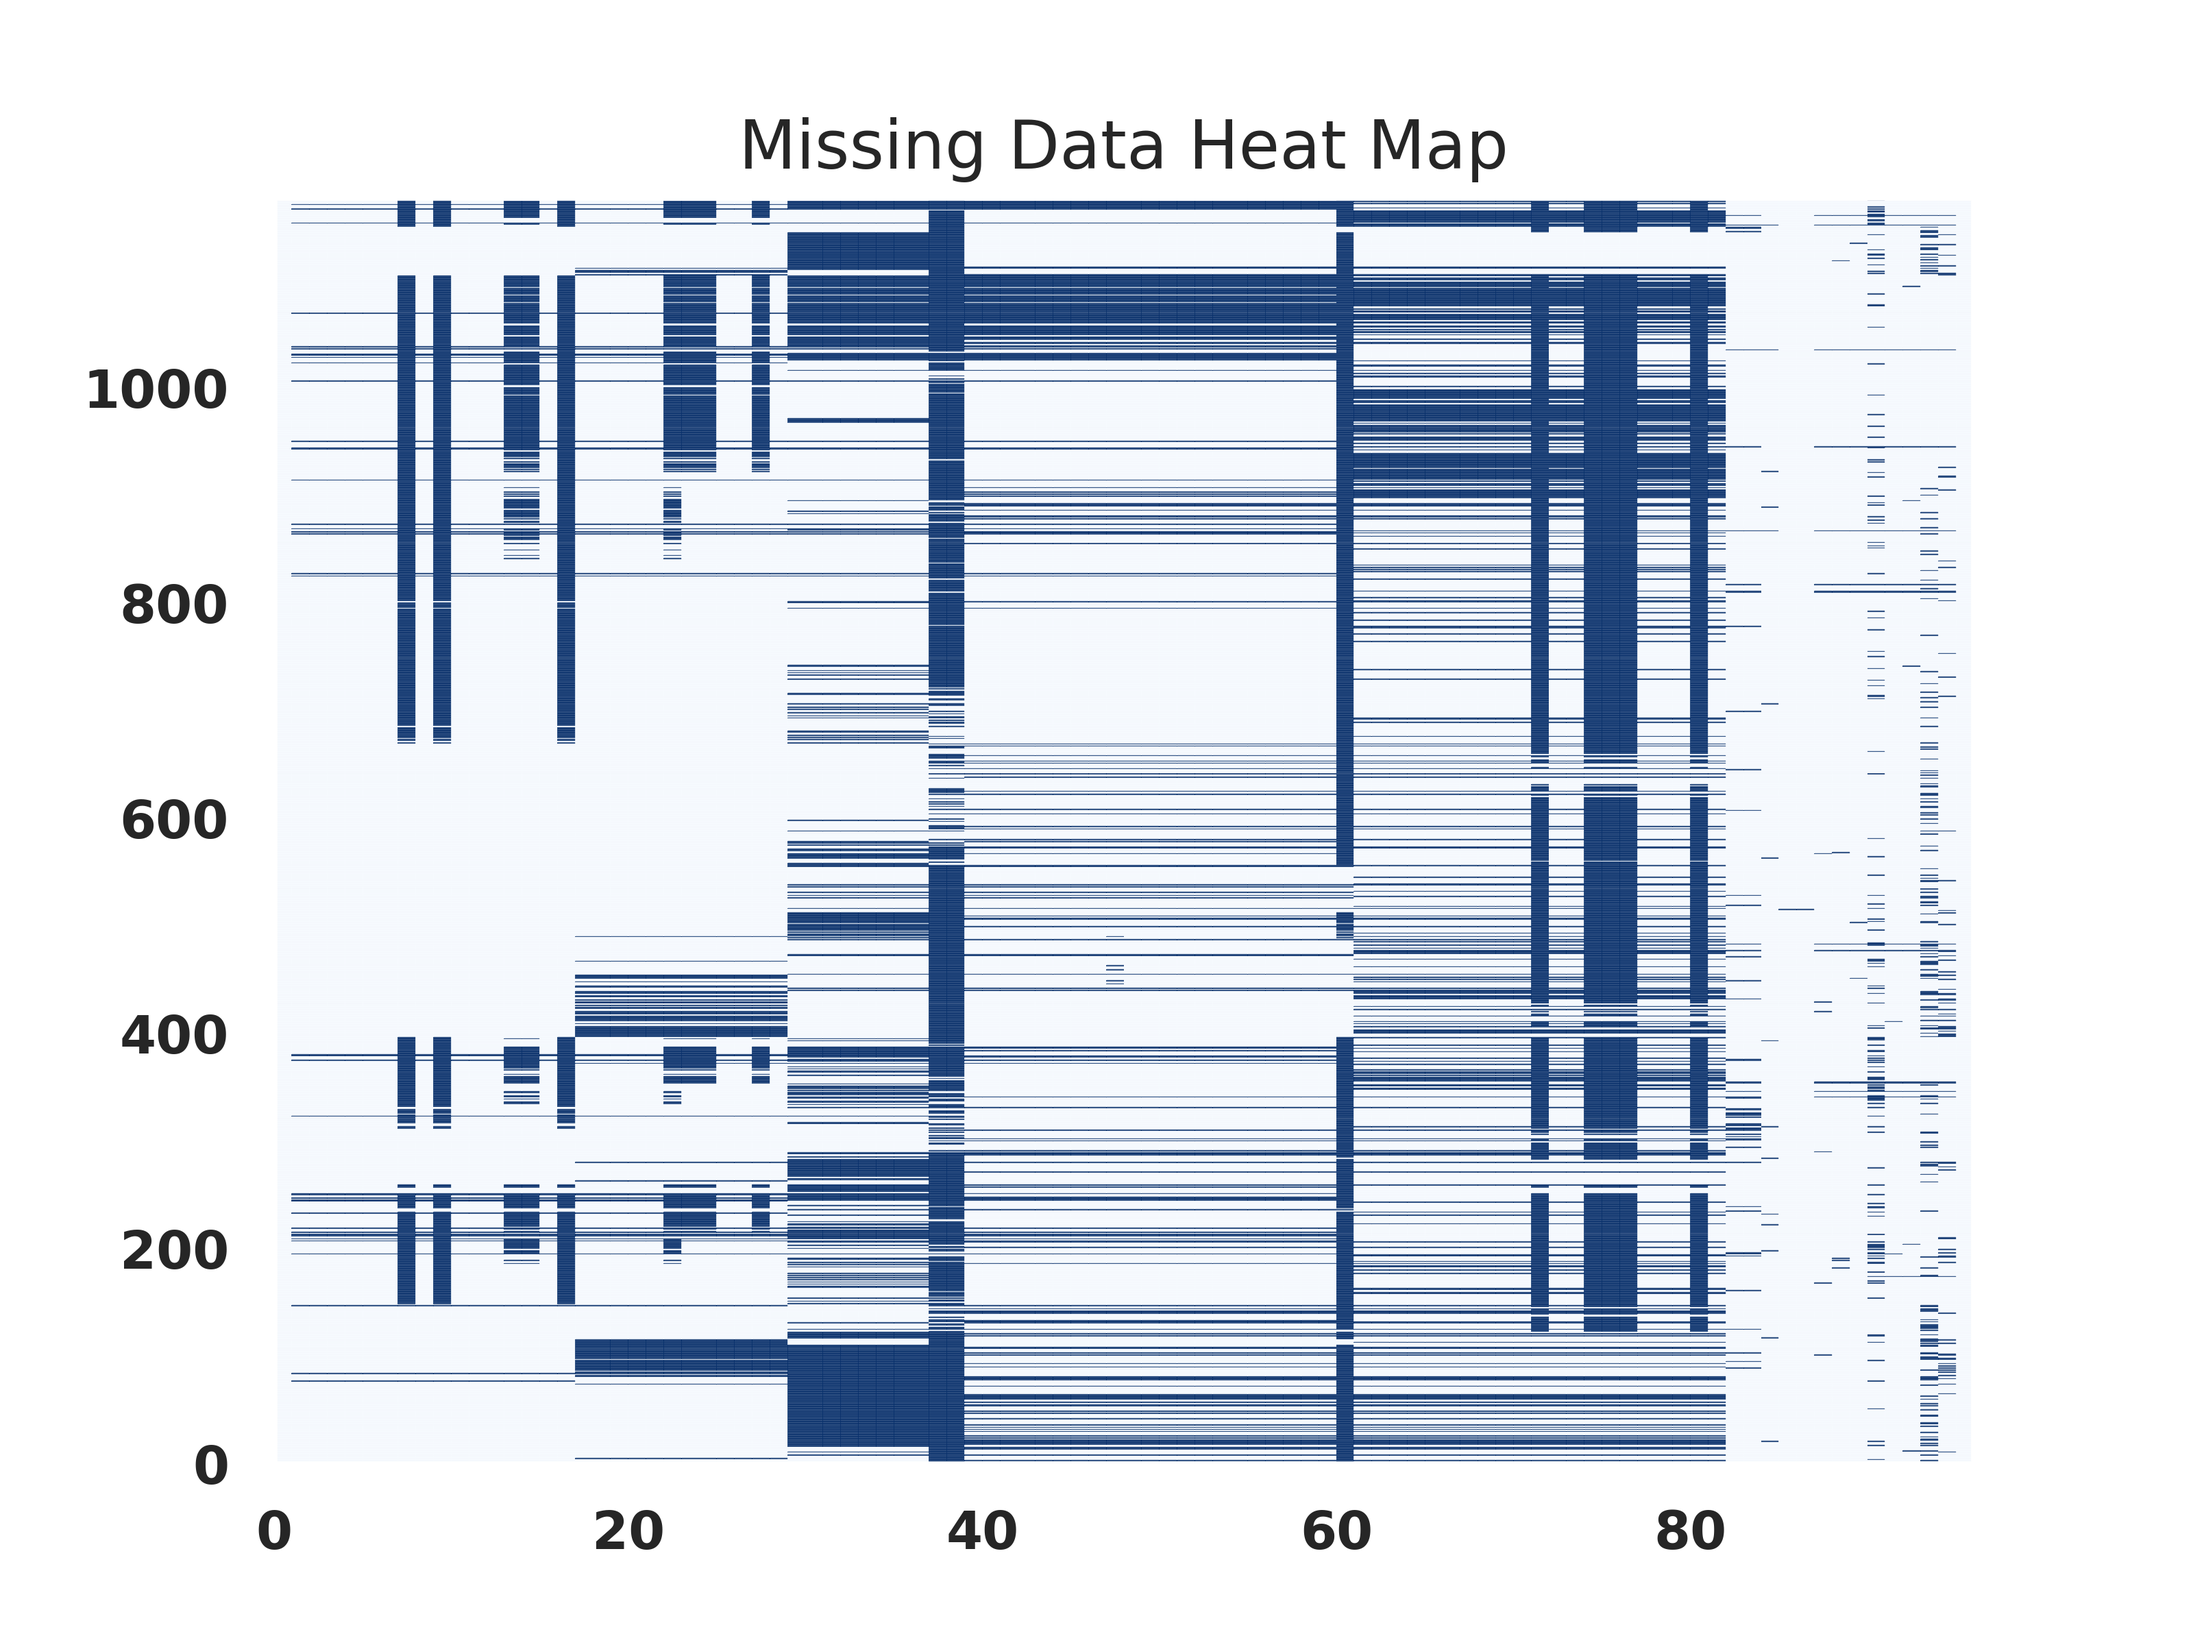
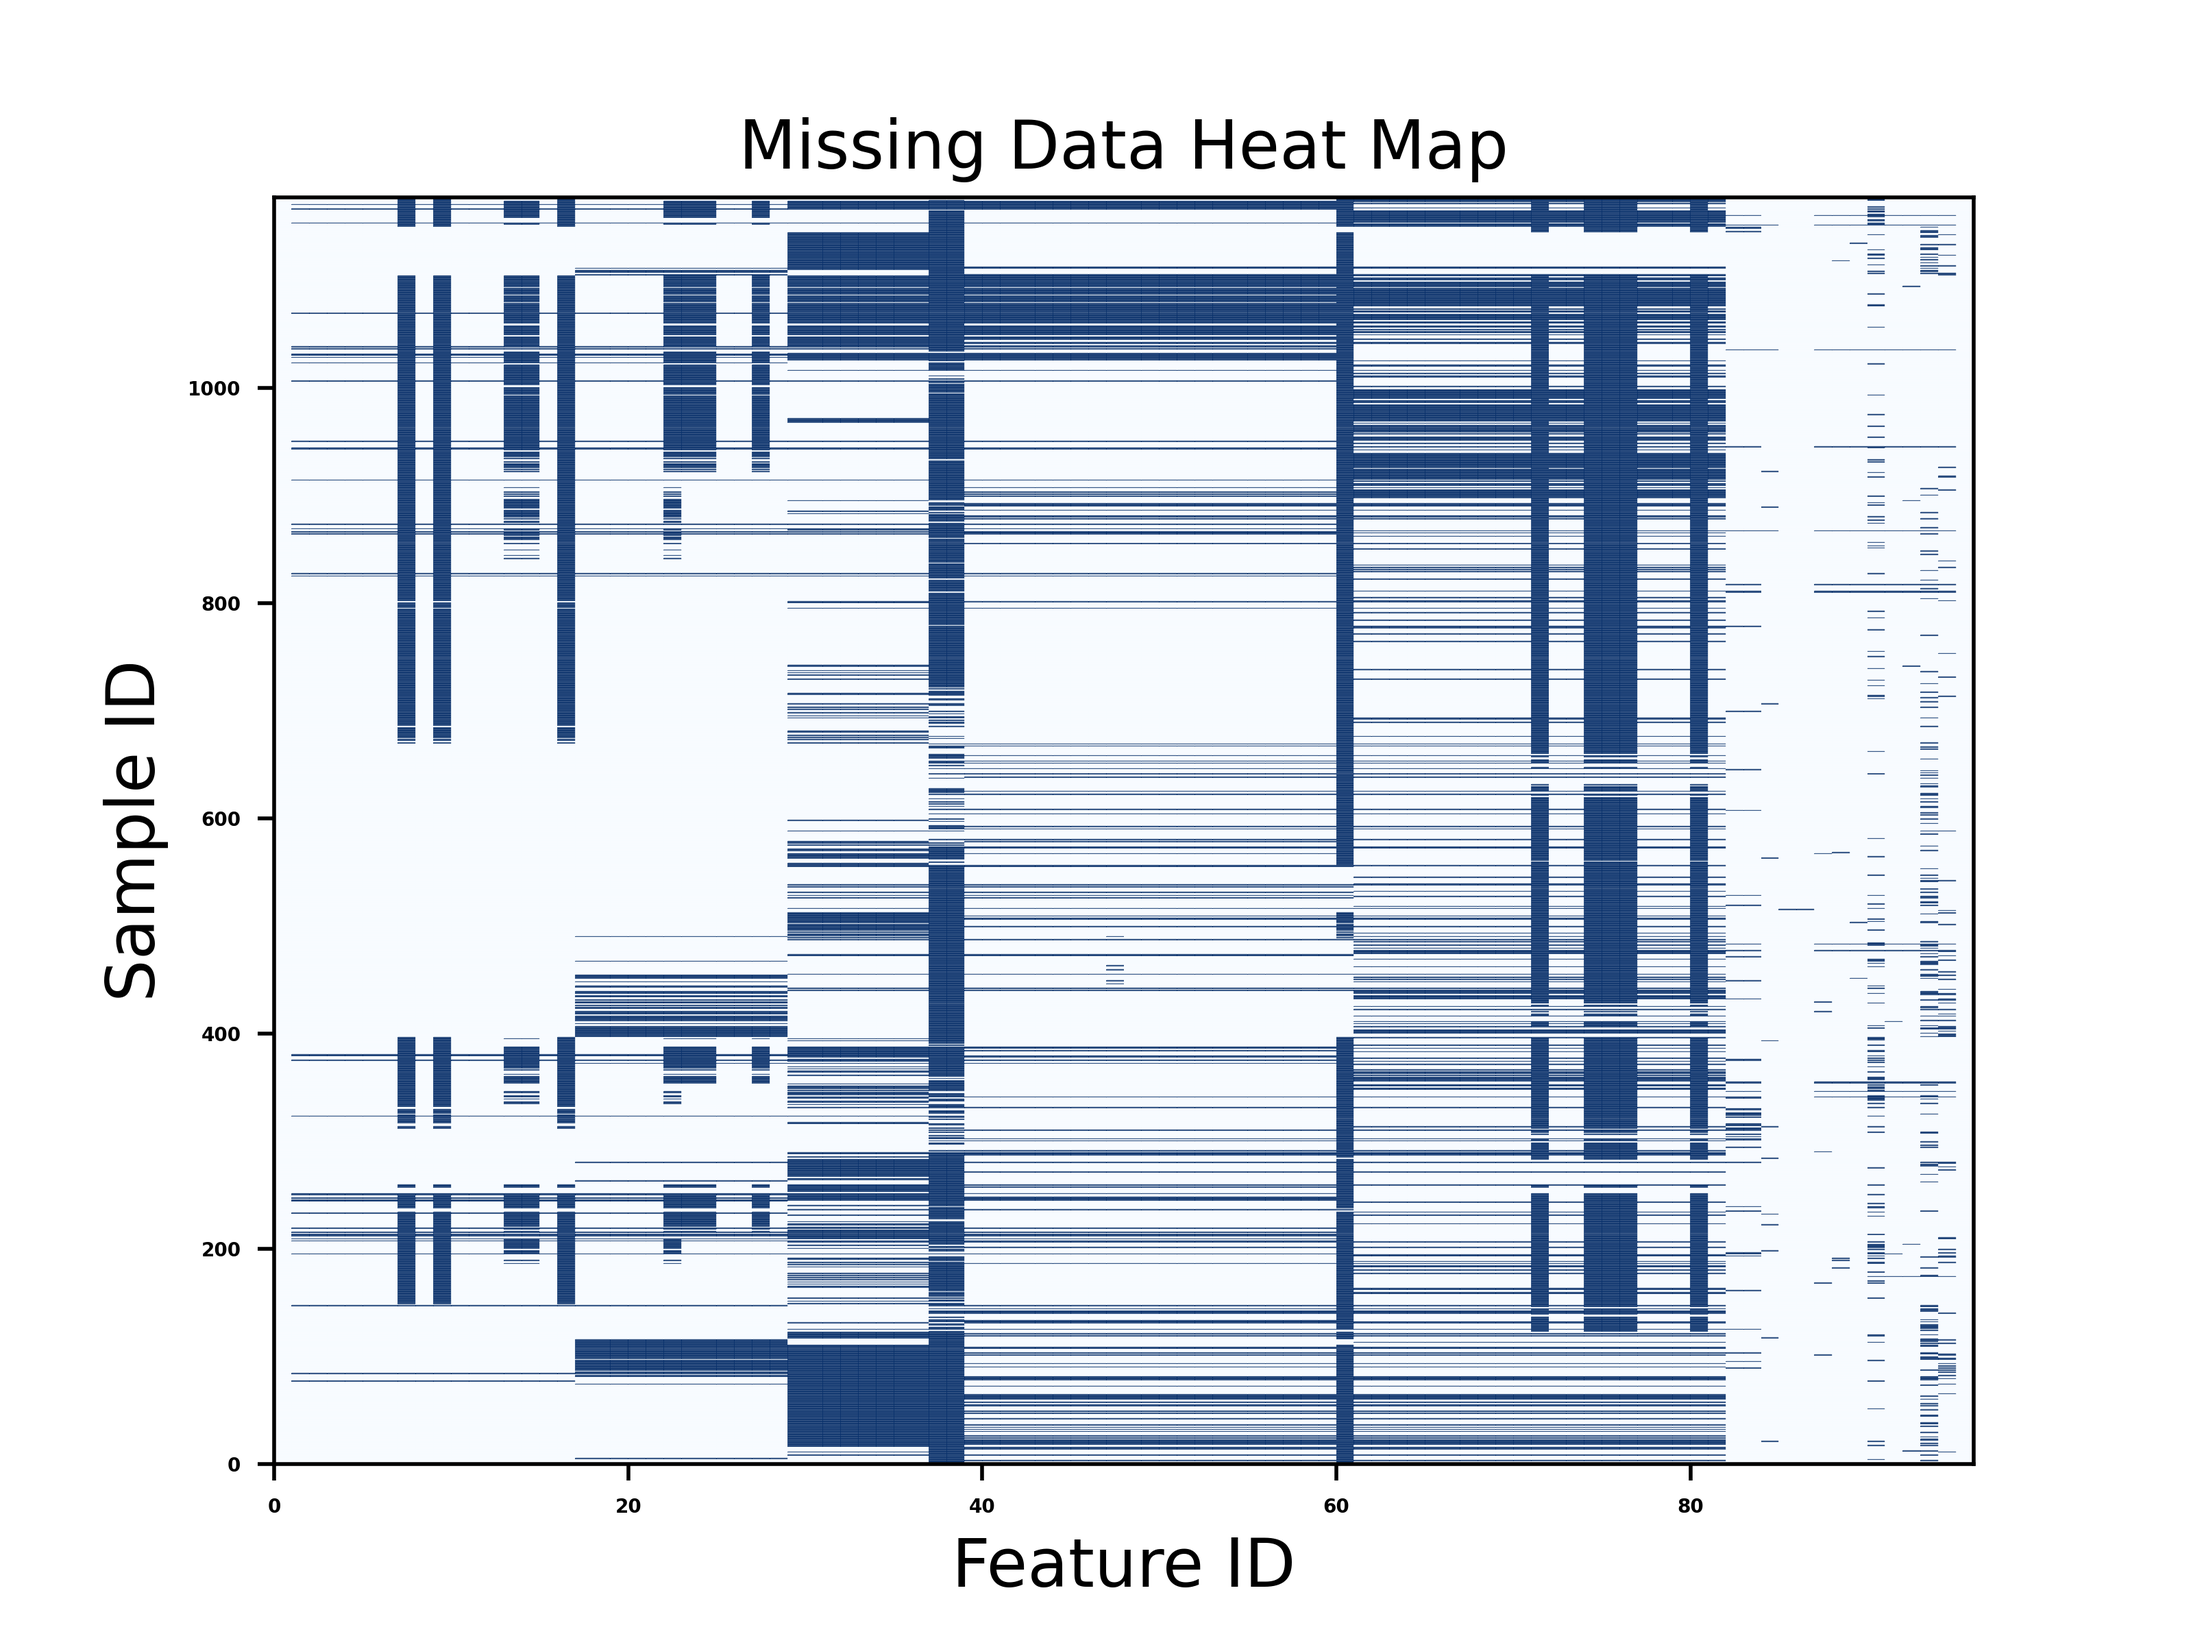
get the heat map working better

diff --git a/wuml/data_stats.py b/wuml/data_stats.py
@@ -36,12 +36,16 @@ def missing_data_stats(df):
 
 	X2 = np.isnan(X).astype(int)
 	hMap = heatMap()
-	hMap.draw_HeatMap(X2, title='Missing Data Heat Map', path='./DatStats/missing_data_heatMap.png')
+	hMap.draw_HeatMap(X2, title='Missing Data Heat Map', 
+							xlabel='Feature ID', ylabel='Sample ID',
+							path='./DatStats/missing_data_heatMap.png')
 
-	wuml.write_to(str(df.info()), './DatStats/feature_stats.txt')
+	#wuml.write_to(str(df.info()), './DatStats/feature_stats.txt')
+	#import pdb; pdb.set_trace()
 
 	buffer = io.StringIO()
-	df.info(buf=buffer, verbose=False)
+	df.info(buf=buffer, verbose=True)
 	s = buffer.getvalue()
 	wuml.write_to(s, './DatStats/feature_stats.txt')
+
 

diff --git a/wuml/dependency.py b/wuml/dependency.py
@@ -8,7 +8,7 @@ from sklearn.metrics.cluster import normalized_mutual_info_score
 import matplotlib.pyplot as plt; plt.rcdefaults()
 import matplotlib.pyplot as plt
 from sklearn.preprocessing import KBinsDiscretizer
-from opt_gaussian import *
+from wuml.opt_gaussian import *
 import pandas as pd
 import numpy as np
 import ppscore as pps

diff --git a/wuml/__init__.py b/wuml/__init__.py
@@ -1,4 +1,5 @@
 from .preprocess import *
+from .opt_gaussian import *
 from .data_stats import *
 from .IO import *
 from .dependency import *
